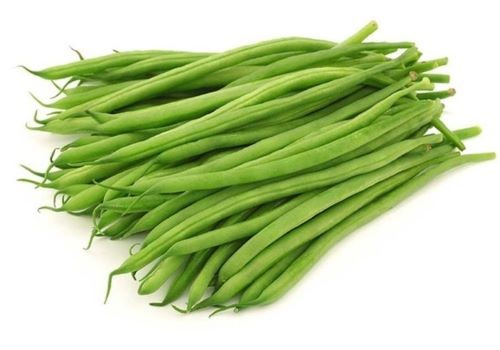
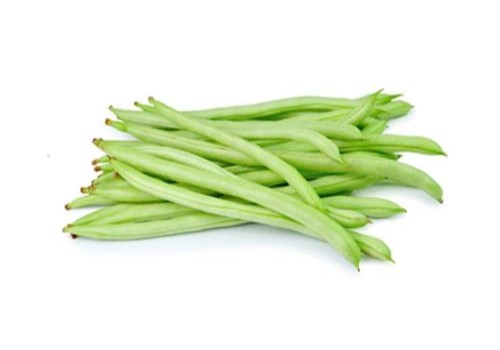
ver 5

diff --git a/fruitables-1.0.0/fruitables-1.0.0/index.html b/fruitables-1.0.0/fruitables-1.0.0/index.html
@@ -446,7 +446,7 @@
                                         <div class="col-md-6 col-lg-4 col-xl-3">
                                             <div class="rounded position-relative fruite-item">
                                                 <div class="fruite-img">
-                                                    <img src="img/vegetable-item-22.jpg" class="img-fluid w-100 rounded-top" alt="">
+                                                    <img src="img/vegetable-item-22.png" class="img-fluid w-100 rounded-top" alt="">
                                                 </div>
                                                 <div class="text-white bg-secondary px-3 py-1 rounded position-absolute" style="top: 10px; left: 10px;">Fruits</div>
                                                 <div class="p-4 border border-secondary border-top-0 rounded-bottom">
